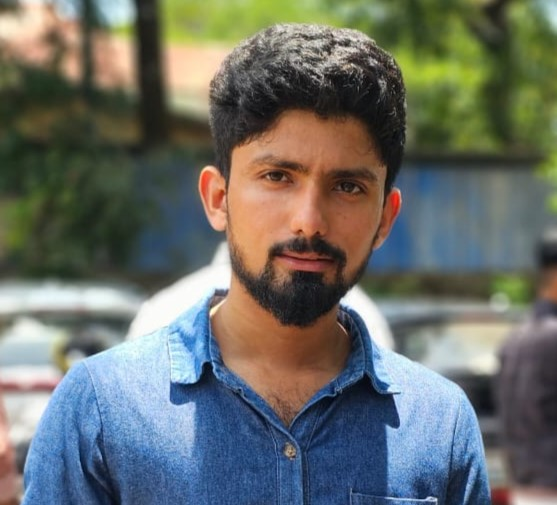
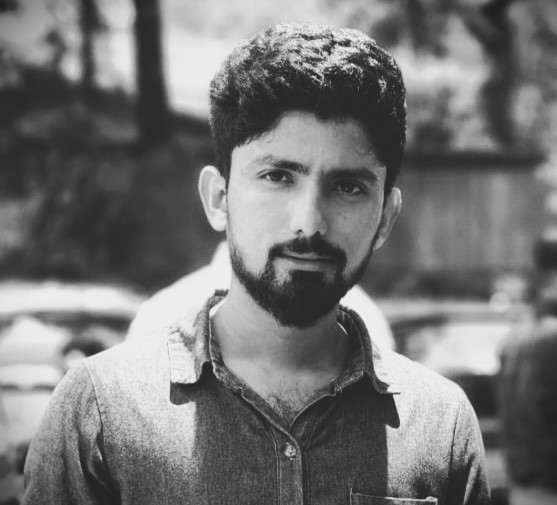
image changes and font style updation

diff --git a/src/Components/About.jsx b/src/Components/About.jsx
@@ -18,11 +18,8 @@ function About() {
 
       <Container>
           <Row className='mt-5 justify-content-center py-4'>
-            <Col lg={6} md={6} sm={12} className='profileImagesection' data-aos="fade-right" data-aos-easing="linear" data-aos-duration="2500">
-              <img className='profileImage' src="/images/profileimg2.jpg" alt="profile image" />
-            </Col>
 
-            <Col lg={6} md={6} sm={12} className='d-flex flex-column'>
+            <Col lg={6} md={12} sm={12} className='d-flex flex-column'>
                 <div className='skillsdiv'>
                     <div className='features m-3 px-4 text-center shadow' data-aos="fade-left" data-aos-easing="linear" data-aos-duration="2500">
                         <i class="uil uil-award fa-2x"></i>
@@ -56,6 +53,10 @@ function About() {
 
                     <a href='/files/updated_cv.pdf' download><button onClick={handleDownload} className='btn btn-dark downloadcv-btn'>Download CV</button></a>
                 </div>
+            </Col>
+
+            <Col lg={6} md={12} sm={12} className='profileImagesection' data-aos="fade-right" data-aos-easing="linear" data-aos-duration="2500">
+              <img className='profileImage' src="/images/profileimg2.jpg" alt="profile image" />
             </Col>
           </Row>
       </Container>

diff --git a/src/Components/Homeintro.jsx b/src/Components/Homeintro.jsx
@@ -20,7 +20,7 @@ function Homeintro() {
                   
                     <h3 className='text-dark fw-bold'>Ashish Samuel Thomson</h3>
                     <h5 className='text-dark font-style fw-bold'>------  Full Stack Developer  ------</h5>
-                    <p style={{fontFamily:'cursive',fontStyle:'italic'}}>Experienced in crafting dynamic web applications using modern technologies to
+                    <p style={{fontStyle:'italic'}}>Experienced in crafting dynamic web applications using modern technologies to
 enhance user experience and drive engagement using React JS and Angular.
 Entry-level individual skilled in Node.js and MongoDB.
 </p>
@@ -30,7 +30,7 @@ Entry-level individual skilled in Node.js and MongoDB.
         </div>
         </Col>
         <Col lg={5} md={5} sm={12} className='text-center' data-aos="zoom-in" data-aos-easing="linear" data-aos-duration="2000">
-            <img className='profileImage' src="/images/profileimg3.png" alt="profile image" />
+            <img className='profileImage' src="/images/profile5.png" alt="profile image" />
         </Col>
       </Row>
       

diff --git a/src/Components/about.css b/src/Components/about.css
@@ -1,7 +1,3 @@
-.about-section{
-    /* height: 75vh; */
-    /* background-color: bisque; */
-}
 
 .profileImage{
     height: 300px;
@@ -32,6 +28,7 @@
     display: flex;
     justify-content: center;
     align-items: center;
+    margin-top: 45px !important;
 }
 
 

diff --git a/src/Components/header.css b/src/Components/header.css
@@ -18,9 +18,9 @@ link{
     color: gray;
 }
 
-.font-style{
+/* .font-style{
     font-family: Impact, Haettenschweiler, 'Arial Narrow Bold', sans-serif;
-}
+} */
 
 .scroll-header{
     box-shadow: 0 -1px 4px rgba(0, 0, 0, 0.15);
